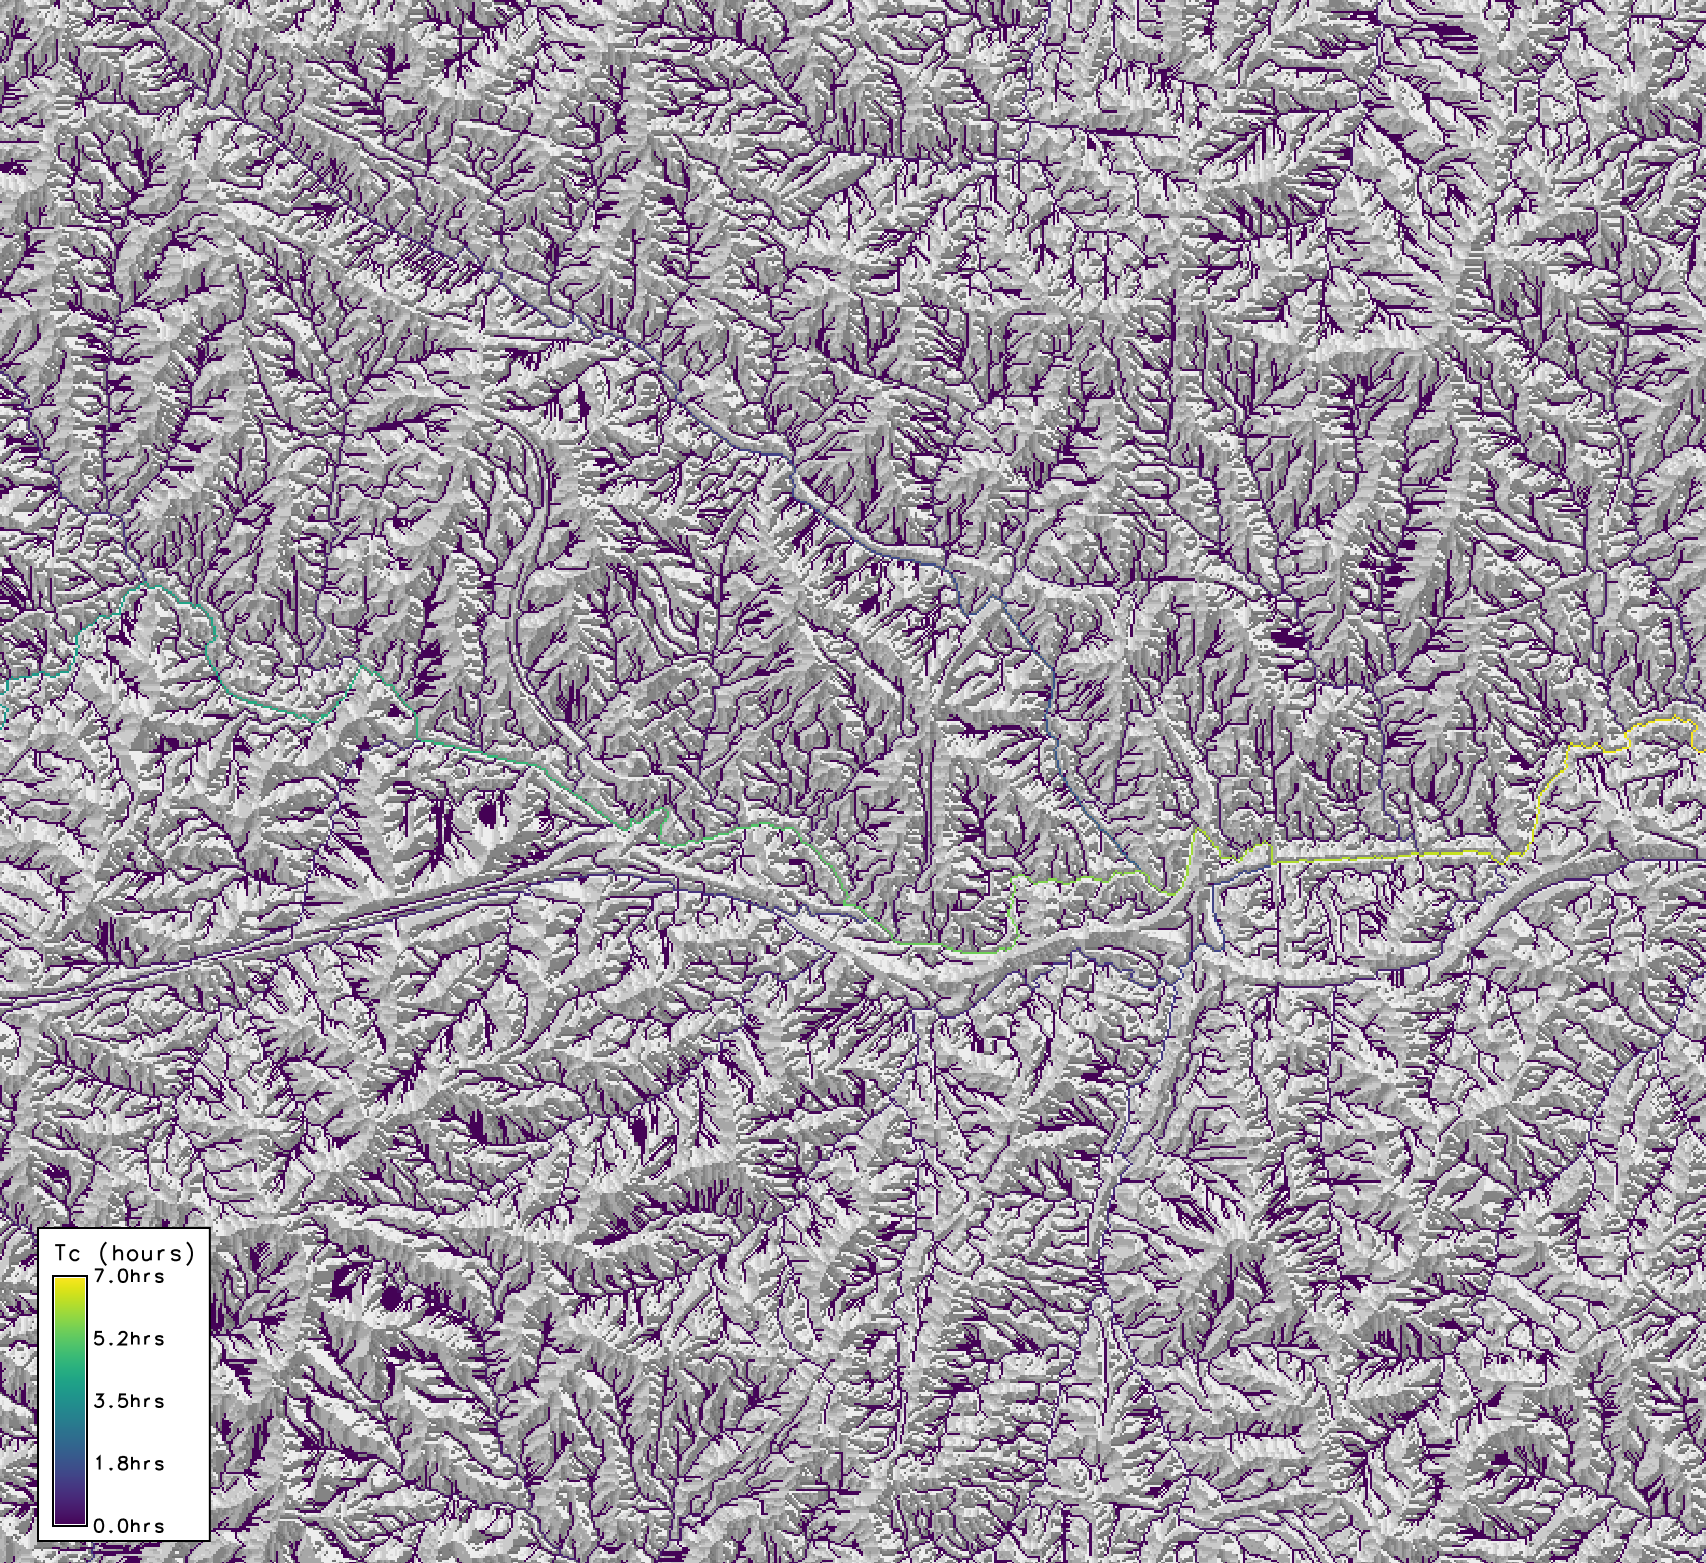
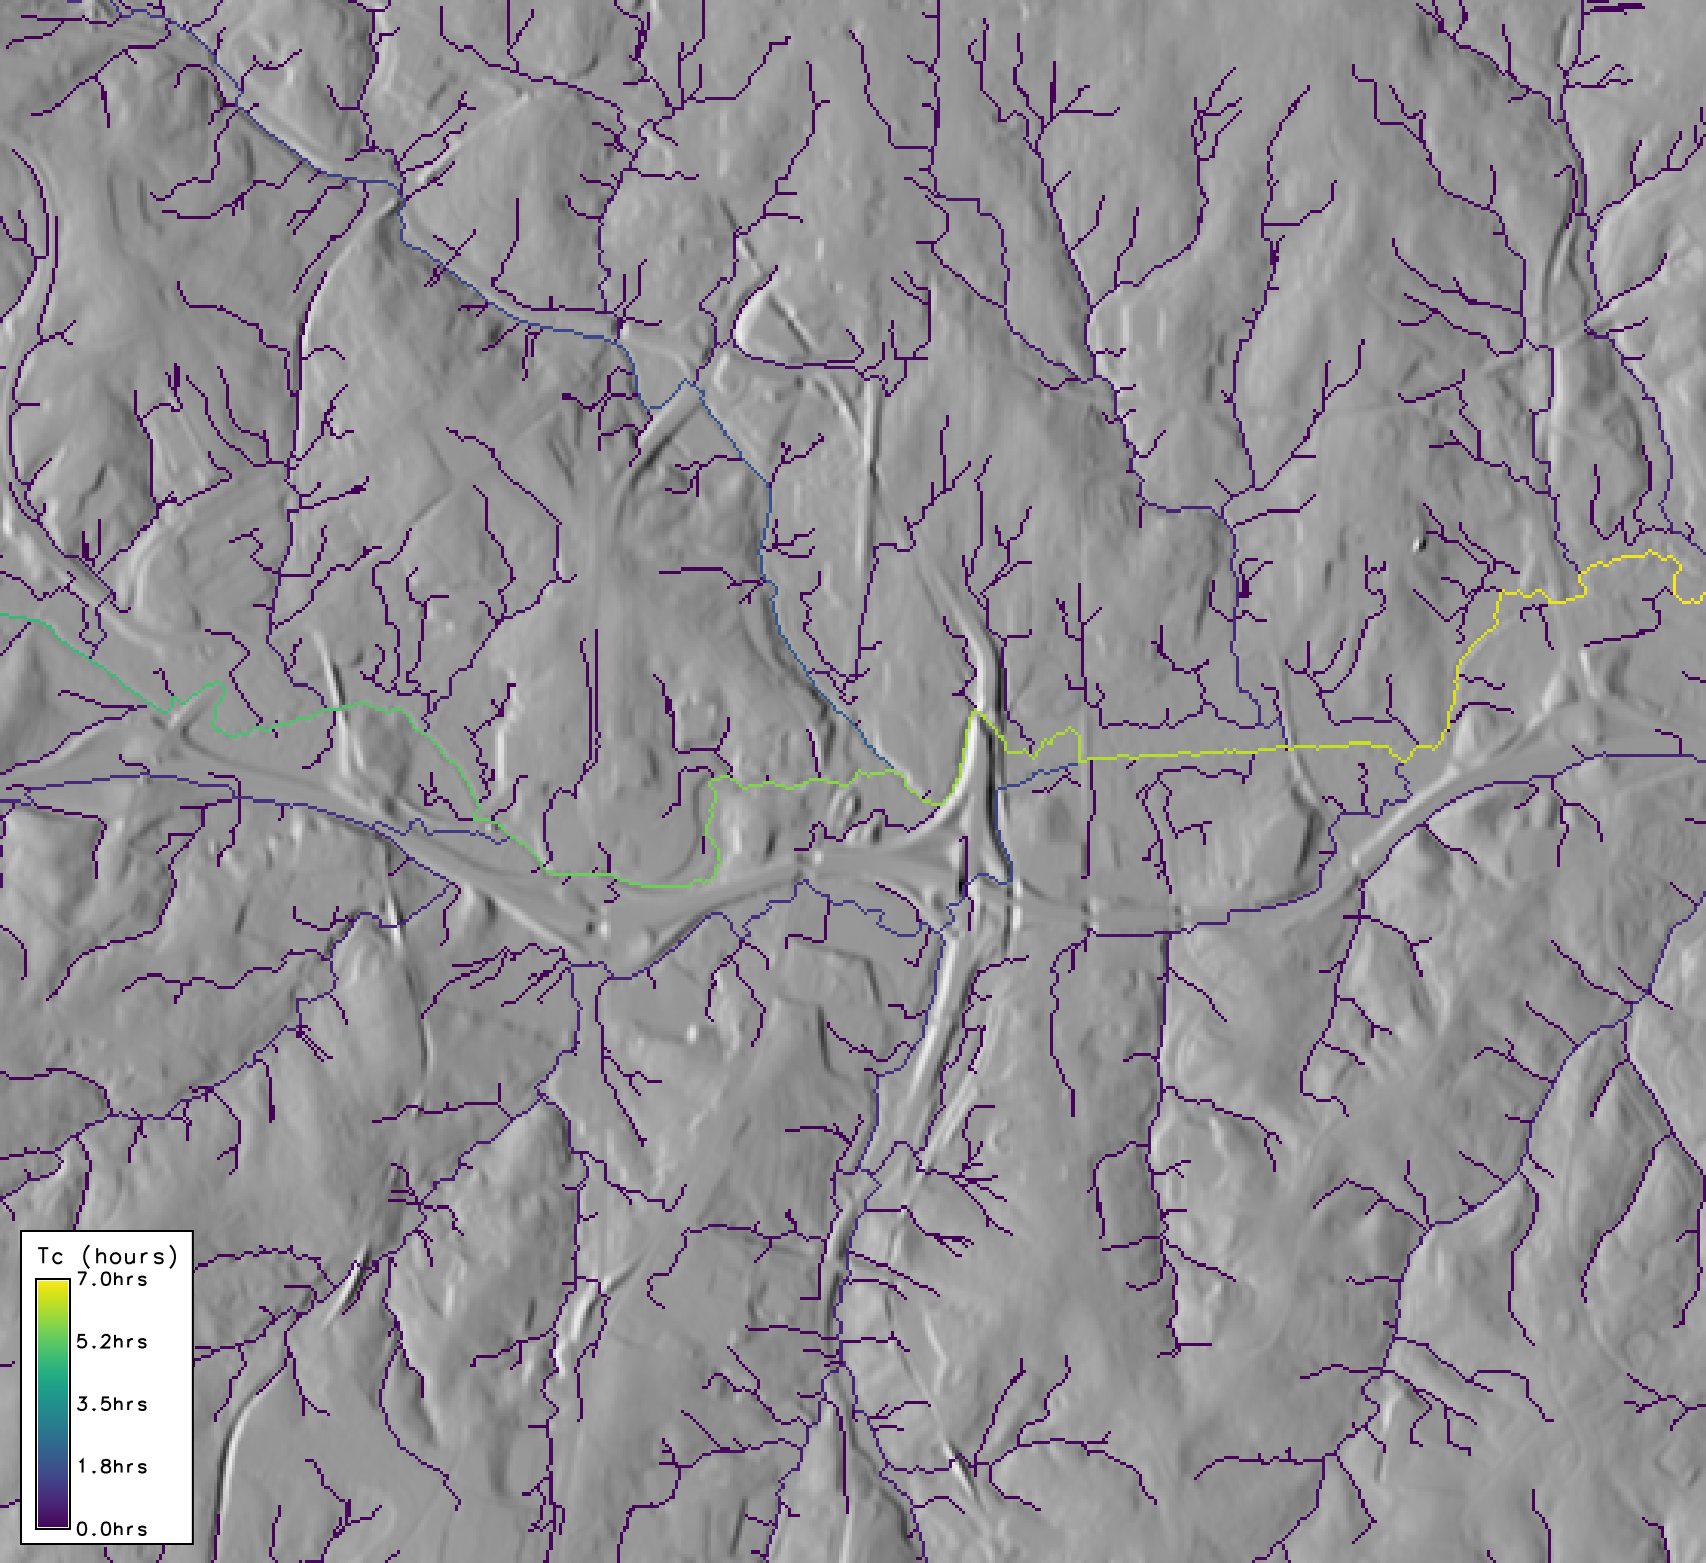
fix: proper handling of vertical units, zoomed in map, corrections in the documentation

diff --git a/src/raster/r.timeofconcentration/r.timeofconcentration.html b/src/raster/r.timeofconcentration/r.timeofconcentration.html
@@ -71,16 +71,22 @@ where <code>\Delta z</code> is the drop and <code>L</code> is the length.</p>
 g.region -p raster=elevation
 
 # calculate positive flow accumulation and drainage directions using r.watershed
-r.watershed -sa elevation=elevation drainage=fdr threshold=10
+r.watershed -sa elevation=elevation drainage=fdr stream=str threshold=10
 
-# compute the time of concentration (use same threshold as r.watershed)
+# compute the time of concentration
 r.timeofconcentration elevation=elevation direction=fdr streams=str tc=tc_nc
 
 # use length_min parameter for coarser tc on important streams only
-r.timeofconcentration elevation=elevation direction=fdr streams=str tc=tc_nc_100 length_min=100
+r.timeofconcentration elevation=elevation direction=fdr streams=str tc=tc_nc_250 length_min=250
+
+# if the vertical units of the DEM are in feet
+r.timeofconcentration elevation=elevation vunits=feet dir=fdr str=str tc=tc
+
+# if the vertical units of the DEM are in units other than meters or feet (e.g., cm)
+r.timeofconcentration elevation=elevation vunits=factor factor=0.1 dir=fdr str=str tc=tc
 </code></pre>
 <p><img src="tc_nc.png" alt="r_timeofconcentration example"><br>
-Figure: Output from <code>r.timeofconcentration</code> on NC dataset zoomed near the
+Figure: Output from <code>r.timeofconcentration</code> with length_min=250 on NC dataset zoomed near the
 watershed outlet</p>
 
 <h2>REFERENCES</h2>

diff --git a/src/raster/r.timeofconcentration/r.timeofconcentration.py b/src/raster/r.timeofconcentration/r.timeofconcentration.py
@@ -161,7 +161,14 @@ def main():
     length_min = float(options["length_min"]) if options.get("length_min") else 10.0
 
     vertical_units = options.get("vertical_units") or "meters"
-    factor = options.get("factor")
+    if vertical_units in ("meters", "feet"):
+        if options["factor"]:
+            gs.fatal(_("Factors must be used only when vertical_units=factor"))
+        factor = 1 if vertical_units == "meters" else 1.0 / 3.28084
+    elif options["factor"]:
+        factor = float(options.get("factor"))
+    else:
+        gs.fatal(_("Factor must be provided when vertical_units=factor"))
 
     length = options.get("length")
     drop = options.get("drop")
@@ -188,19 +195,6 @@ def main():
             gs.fatal(
                 _("optional 'outlets' raster <{name}> not found").format(name=outlets)
             )
-
-    # vertical conversion factor
-    factor = 1.0
-    if vertical_units == "meters":
-        factor = 1.0
-    elif vertical_units == "feet":
-        factor = 1.0 / 3.28084
-    elif vertical_units == "factor":
-        if not factor:
-            gs.fatal(_("vertical_units=factor requires 'factor=' to be set"))
-        factor = float(factor)
-    else:
-        gs.fatal(_("unsupported vertical_units={vu}").format(vu=vertical_units))
 
     # temps / targets
     L = length if length else tmp_rast("TMP_r_toc_L")

diff --git a/src/raster/r.timeofconcentration/r.timeofconcentration.md b/src/raster/r.timeofconcentration/r.timeofconcentration.md
@@ -89,18 +89,24 @@ Calculate time of concentration using r.watershed and r.timeofconcentration:
 g.region -p raster=elevation
 
 # calculate positive flow accumulation and drainage directions using r.watershed
-r.watershed -sa elevation=elevation drainage=fdr threshold=10
+r.watershed -sa elevation=elevation drainage=fdr stream=str threshold=10
 
-# compute the time of concentration (use same threshold as r.watershed)
+# compute the time of concentration
 r.timeofconcentration elevation=elevation direction=fdr streams=str tc=tc_nc
 
 # use length_min parameter for coarser tc on important streams only
-r.timeofconcentration elevation=elevation direction=fdr streams=str tc=tc_nc_100 length_min=100
+r.timeofconcentration elevation=elevation direction=fdr streams=str tc=tc_nc_250 length_min=250
+
+# if the vertical units of the DEM are in feet
+r.timeofconcentration elevation=elevation vunits=feet dir=fdr str=str tc=tc
+
+# if the vertical units of the DEM are in units other than meters or feet (e.g., cm)
+r.timeofconcentration elevation=elevation vunits=factor factor=0.1 dir=fdr str=str tc=tc
 ```
 
 ![r_timeofconcentration example](tc_nc.png)
-*Figure: Output from r.timeofconcentration on NC dataset zoomed near the
-watershed outlet*
+*Figure: Output from r.timeofconcentration with length_min=250 on NC dataset
+zoomed near the watershed outlet*
 
 ## REFERENCES
 
